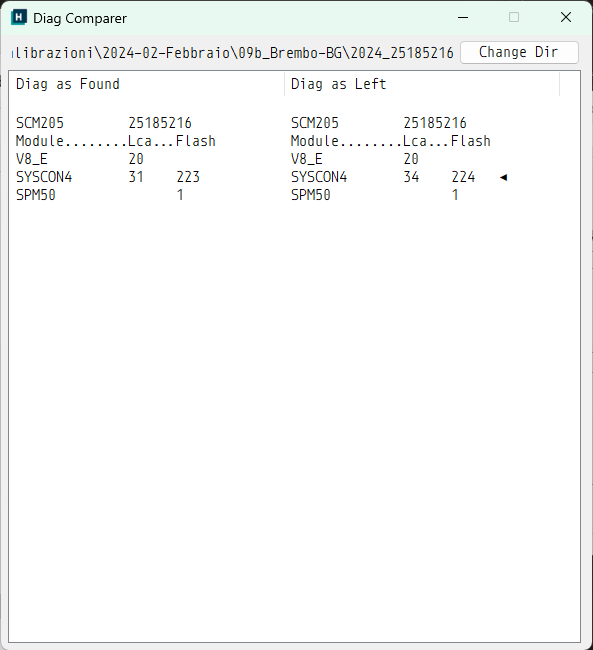
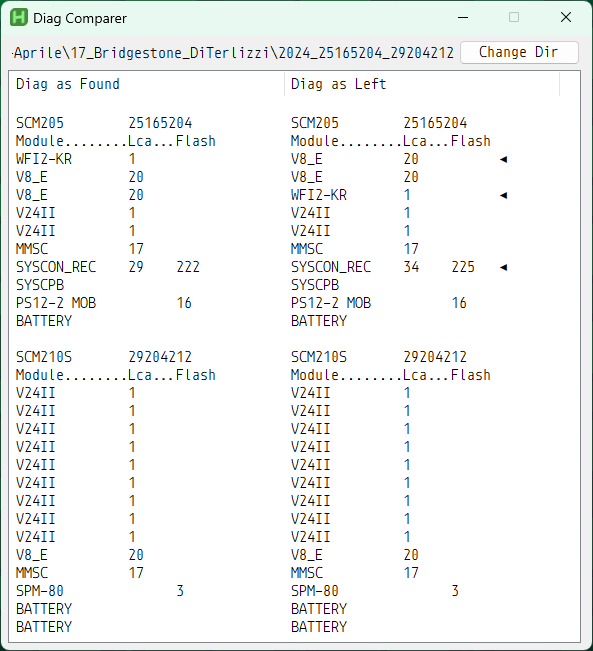
Info

diff --git a/README.md b/README.md
@@ -2,4 +2,4 @@
 - **Choose a folder** with 2 Diag Reports in it</br> (you will be prompted at the startup)
 - **Diag Comparer** will display their Detailed-configuration-tables side by side.</br> Lines that don't match are marked with "◄", so updates are easy to spot
 
-![image](https://github.com/DavidBevi/sisw/blob/main/CalibTxtCompare_Screenshot2.png?raw=true)
+![image](https://github.com/DavidBevi/sisw/blob/main/CalibTxtCompare_Screenshot1.png?raw=true)
